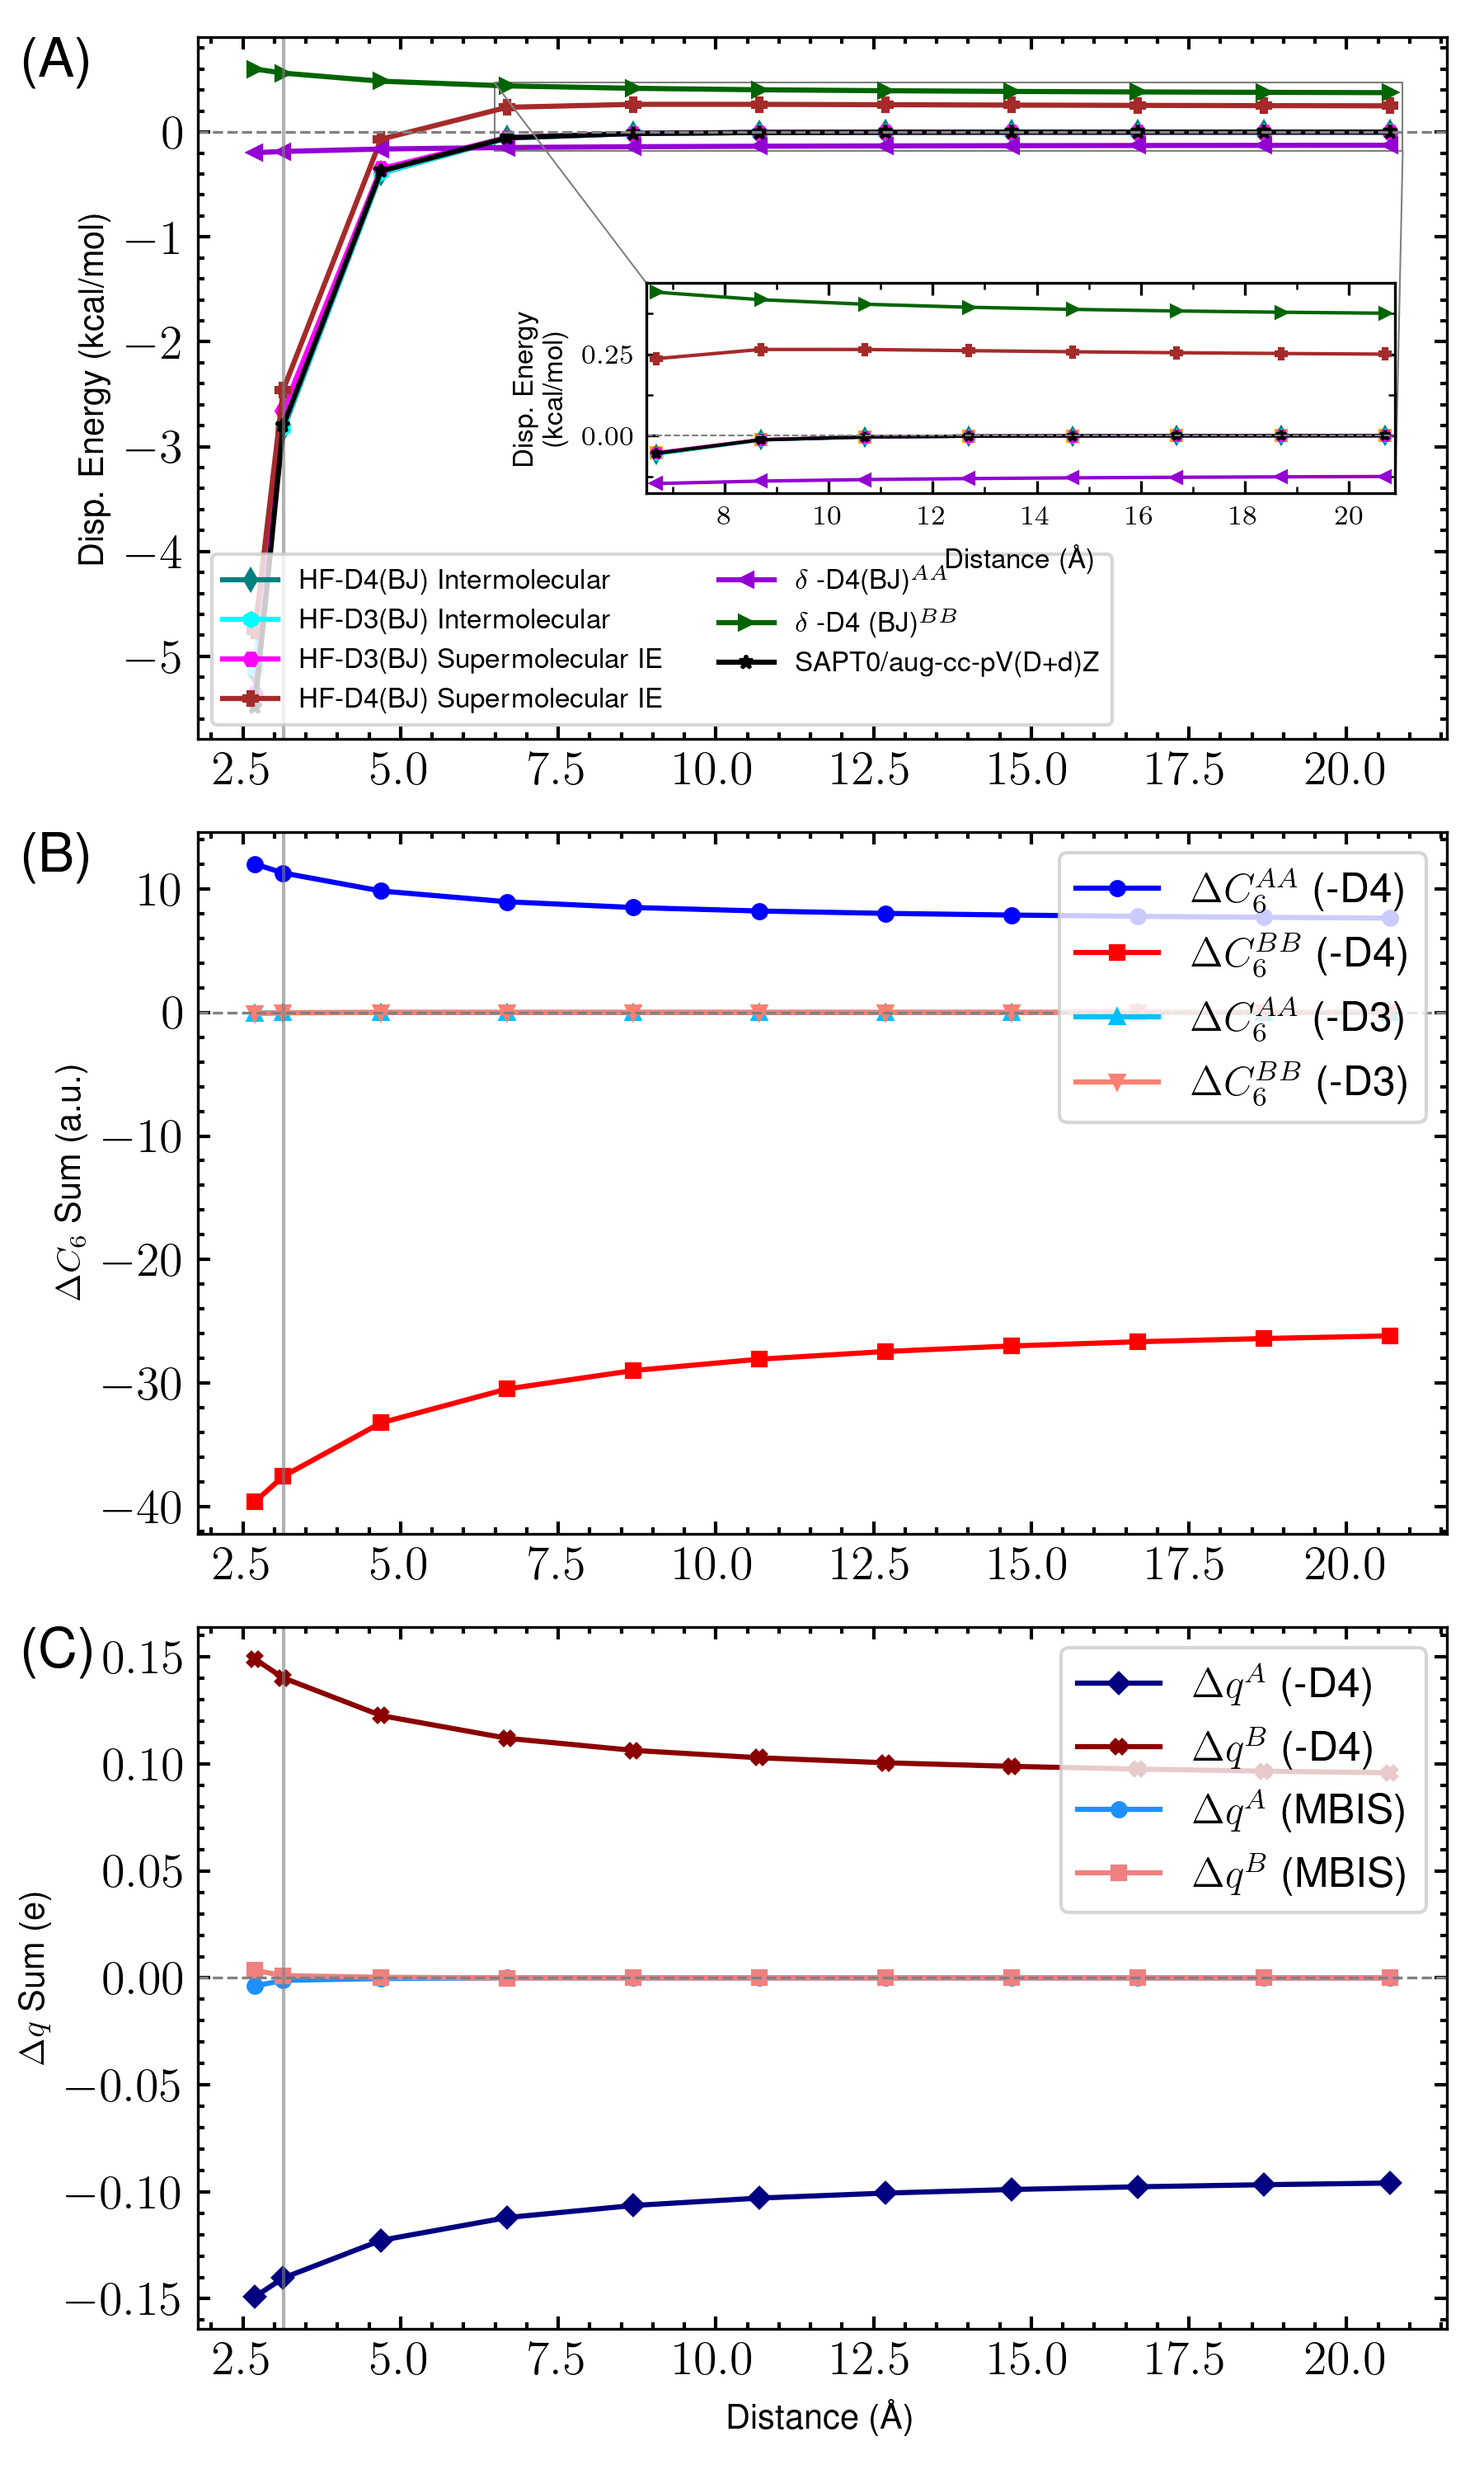
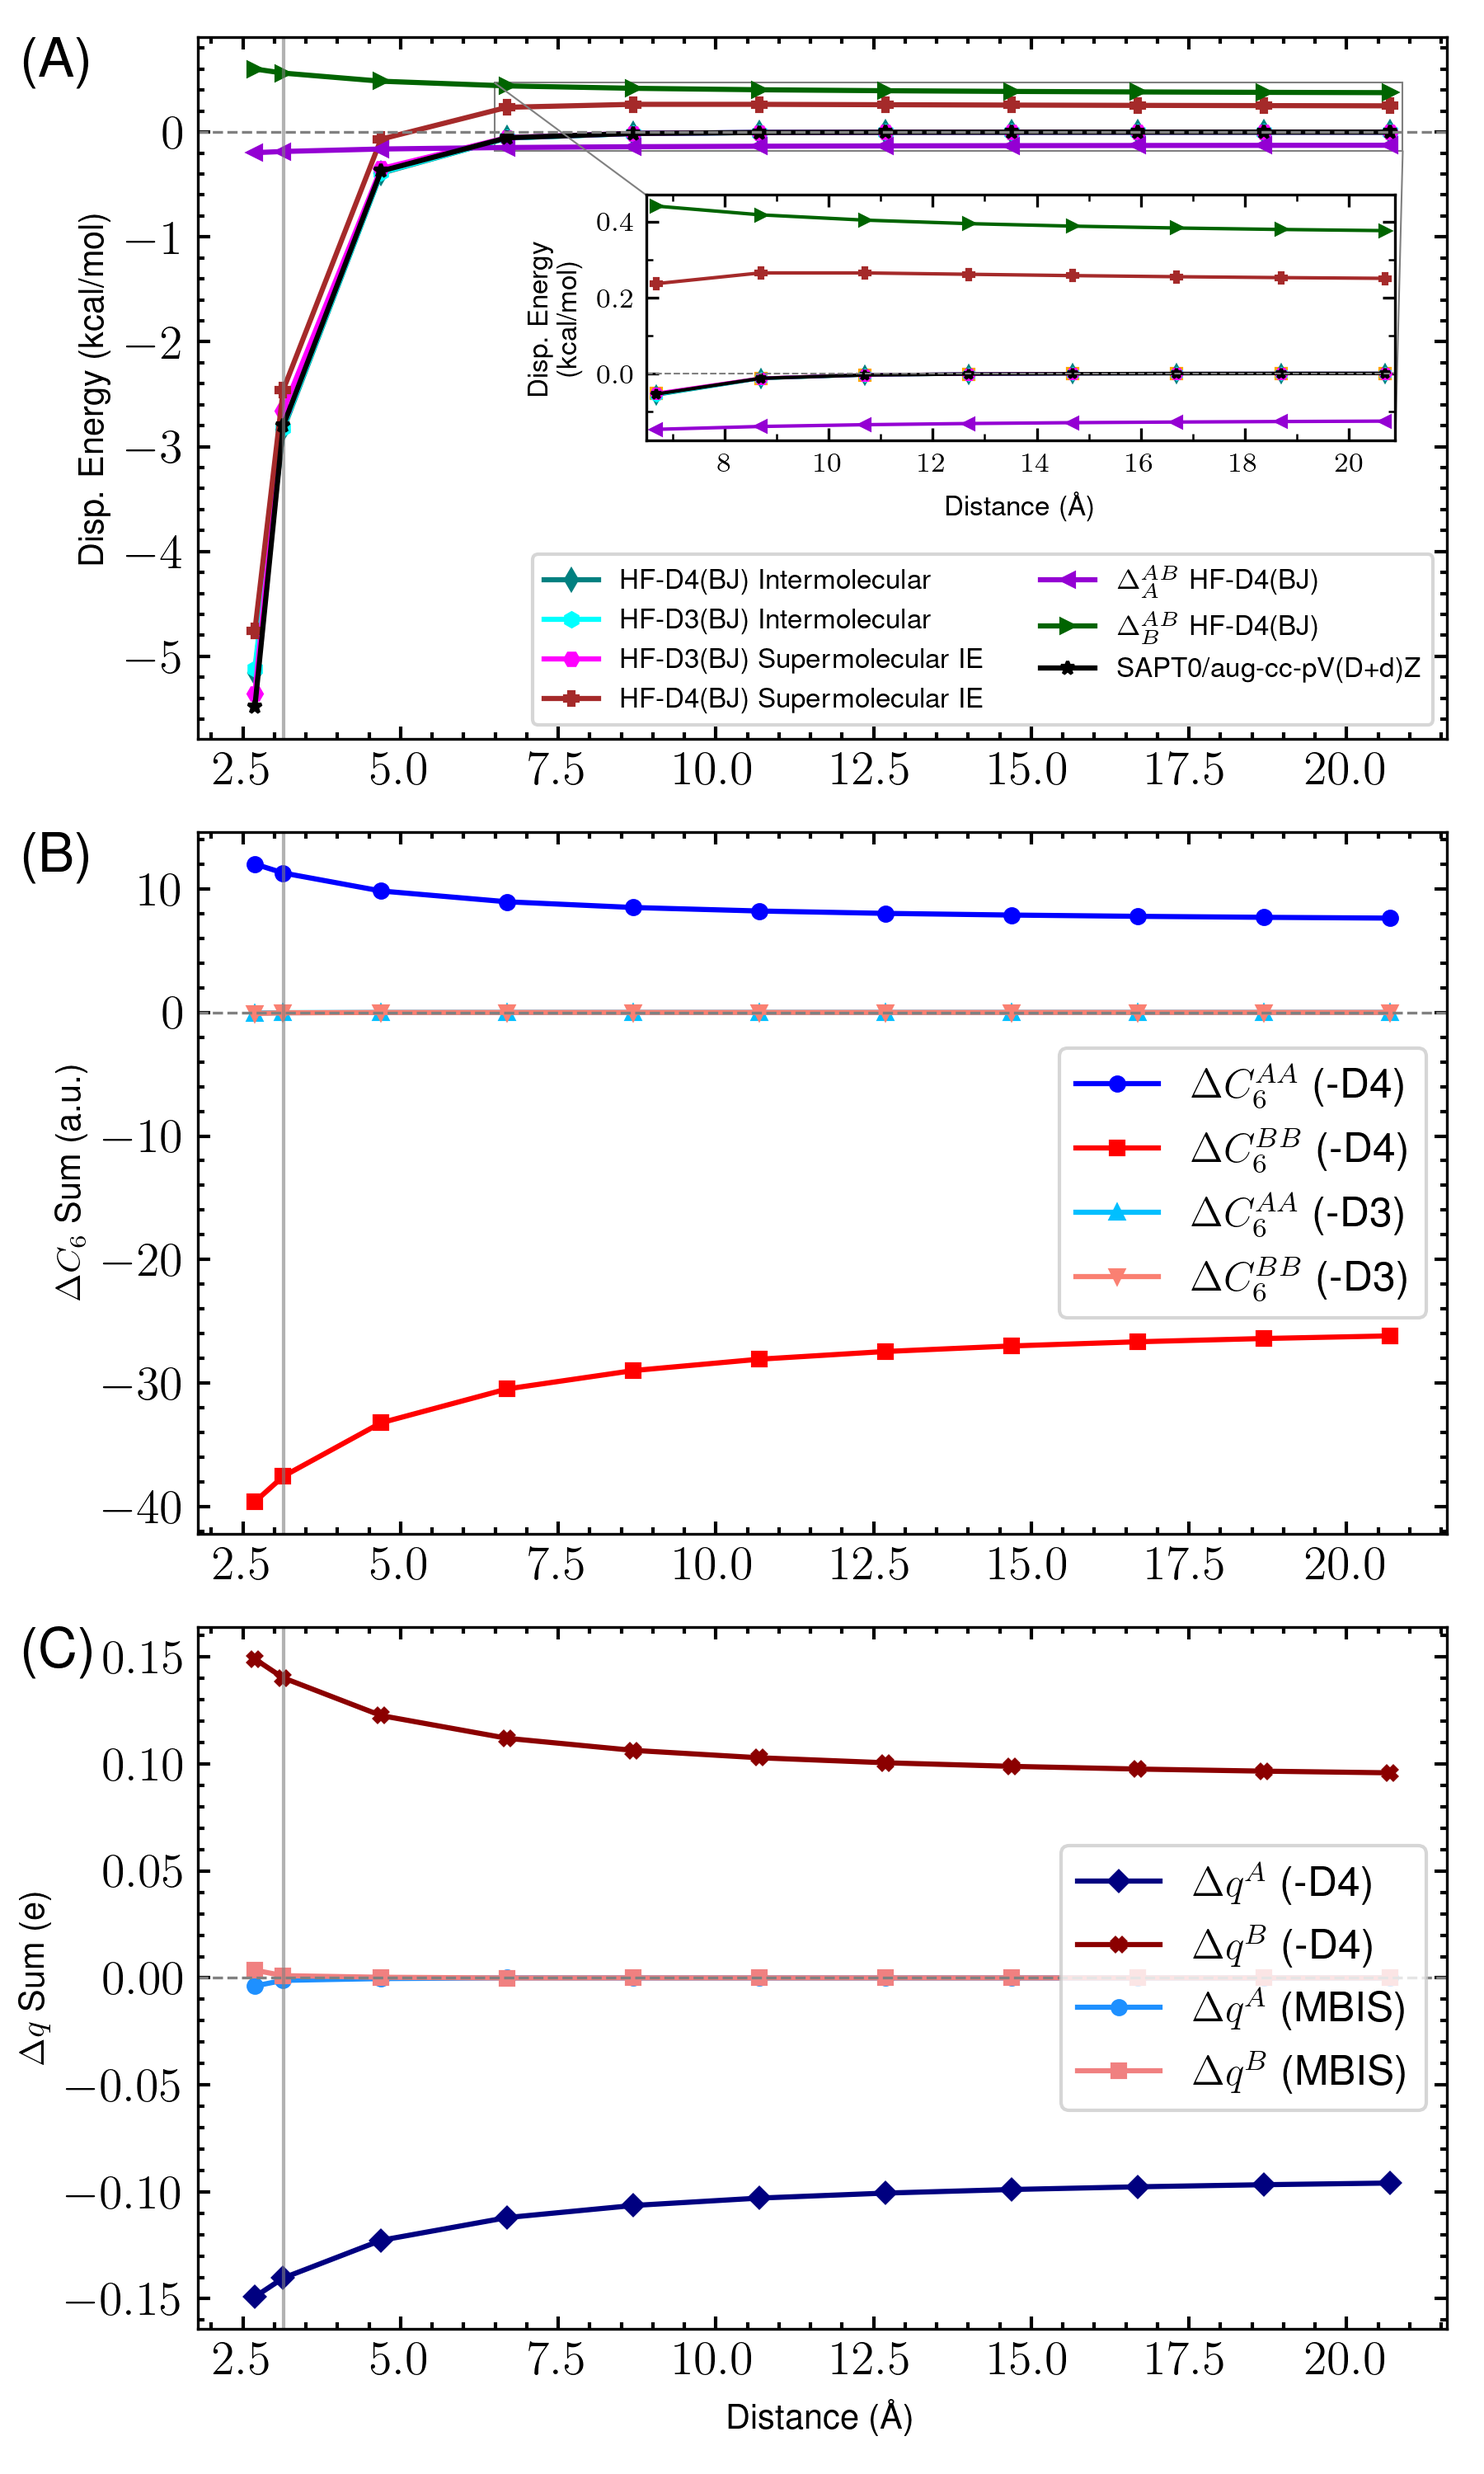
change in c6s explained

Changed region(s): [[0.1244, 0.062, 0.9644, 0.31], [0.7156, 0.651, 0.9644, 0.868], [0.7156, 0.341, 0.9644, 0.527]]

diff --git a/plot_c6_changes_mbis.py b/plot_c6_changes_mbis.py
@@ -167,7 +167,7 @@ def plot_c6_extrapolation_charges(
         top=True,
         right=True,
     )
-    ax_mid.legend(fontsize=legend_fontsize, loc="upper right")
+    ax_mid.legend(fontsize=legend_fontsize, loc="center right")
     ax_mid.xaxis.set_major_formatter(ScalarFormatter())
     ax_mid.yaxis.set_major_formatter(ScalarFormatter())
 
@@ -233,7 +233,7 @@ def plot_c6_extrapolation_charges(
         df_results["disp_delta_A_damped"],
         color=colors["delta_A_BJ"],
         marker=markers["delta_A_BJ"],
-        label=r"$\delta$ -D4(BJ)$^{AA}$",
+        label=r"$\Delta^{AB}_{A}$ HF-D4(BJ)",
         markersize=4,
     )
     ax_top.plot(
@@ -241,7 +241,7 @@ def plot_c6_extrapolation_charges(
         df_results["disp_delta_B_damped"],
         color=colors["delta_B_BJ"],
         marker=markers["delta_B_BJ"],
-        label=r"$\delta$ -D4 (BJ)$^{BB}$",
+        label=r"$\Delta^{AB}_{B}$ HF-D4(BJ)",
         markersize=4,
     )
     ax_top.plot(
@@ -267,8 +267,10 @@ def plot_c6_extrapolation_charges(
     ax_inset = inset_axes(
         ax_top,
         width="60%",
-        height="30%",
+        height="35%",
         loc="center right",
+        bbox_to_anchor=(0, 0.1, 1, 1),
+        bbox_transform=ax_top.transAxes,
         borderpad=1.5,
     )
 
@@ -355,7 +357,9 @@ def plot_c6_extrapolation_charges(
     )
     ax_inset.set_xlabel(r"Distance (\AA)", fontsize=8)
     ax_inset.set_ylabel("Disp. Energy\n(kcal/mol)", fontsize=8)
-    ax_inset.set_xlim(inset_data["distance"].min()-0.2, inset_data["distance"].max()+0.2)
+    ax_inset.set_xlim(
+        inset_data["distance"].min() - 0.2, inset_data["distance"].max() + 0.2
+    )
     # ax_inset minor ticks
     ax_inset.xaxis.set_minor_locator(AutoMinorLocator(2))
     ax_inset.yaxis.set_minor_locator(AutoMinorLocator(2))
@@ -383,7 +387,7 @@ def plot_c6_extrapolation_charges(
         top=True,
         right=True,
     )
-    ax_top.legend(fontsize=legend_fontsize - 4, loc="lower left", ncol=2)
+    ax_top.legend(fontsize=legend_fontsize - 4, loc="lower right", ncol=2)
     ax_top.xaxis.set_major_formatter(ScalarFormatter())
     ax_top.yaxis.set_major_formatter(ScalarFormatter())
 
@@ -451,7 +455,7 @@ def plot_c6_extrapolation_charges(
         top=True,
         right=True,
     )
-    ax_bot.legend(fontsize=legend_fontsize, loc="upper right")
+    ax_bot.legend(fontsize=legend_fontsize, loc="center right")
     ax_bot.xaxis.set_major_formatter(ScalarFormatter())
     ax_bot.yaxis.set_major_formatter(ScalarFormatter())
 
@@ -498,7 +502,7 @@ def compute_mbis_charges(df):
         charges_B.append(q_B)
     df["q_A"] = charges_A
     df["q_B"] = charges_B
-    df['q_dimer'] = charges_dimer
+    df["q_dimer"] = charges_dimer
     df.to_pickle(
         "./plots/c6_extrapolation/45_Ethyne-Pentane_c6_extrapolation_results_with_mbis.pkl"
     )
@@ -519,7 +523,7 @@ def compute_sapt_charges(df):
         pp(qcvars)
         sapt_disp.append(qcvars["SAPT DISP ENERGY"] * h2kcalmol)
         print("SAPT DISP:", sapt_disp[-1])
-    df['sapt0/adz'] = sapt_disp
+    df["sapt0/adz"] = sapt_disp
     df.to_pickle(
         "./plots/c6_extrapolation/45_Ethyne-Pentane_c6_extrapolation_results_with_sapt.pkl"
     )
@@ -543,13 +547,19 @@ def add_mbis_charge_changes(df):
 
     for idx, row in df.iterrows():
         # Sum of MBIS charges for monomers in current geometry
-        q_dimer_sum_A = np.sum(row['q_dimer'][:len(row["q_A"])])  # Charges for monomer A in dimer
-        q_dimer_sum_B = np.sum(row['q_dimer'][len(row["q_A"]):])  # Charges for monomer B in dimer
+        q_dimer_sum_A = np.sum(
+            row["q_dimer"][: len(row["q_A"])]
+        )  # Charges for monomer A in dimer
+        q_dimer_sum_B = np.sum(
+            row["q_dimer"][len(row["q_A"]) :]
+        )  # Charges for monomer B in dimer
 
         # Change relative to first (reference) geometry
         mbis_change_A.append(q_dimer_sum_A - q_A_sum)
         mbis_change_B.append(q_dimer_sum_B - q_B_sum)
-        print(f"{idx}: MBIS d A = {mbis_change_A[-1]:.8f}, for B = {mbis_change_B[-1]:.8f}")
+        print(
+            f"{idx}: MBIS d A = {mbis_change_A[-1]:.8f}, for B = {mbis_change_B[-1]:.8f}"
+        )
 
     df["qs_sum_change_A_MBIS"] = mbis_change_A
     df["qs_sum_change_B_MBIS"] = mbis_change_B
